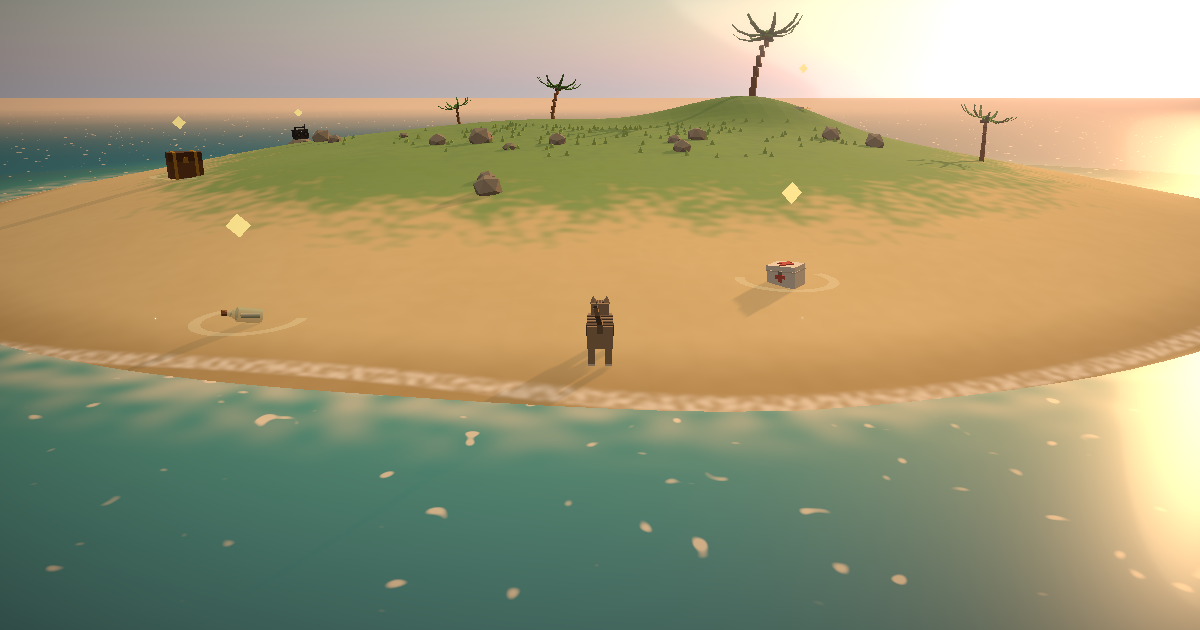
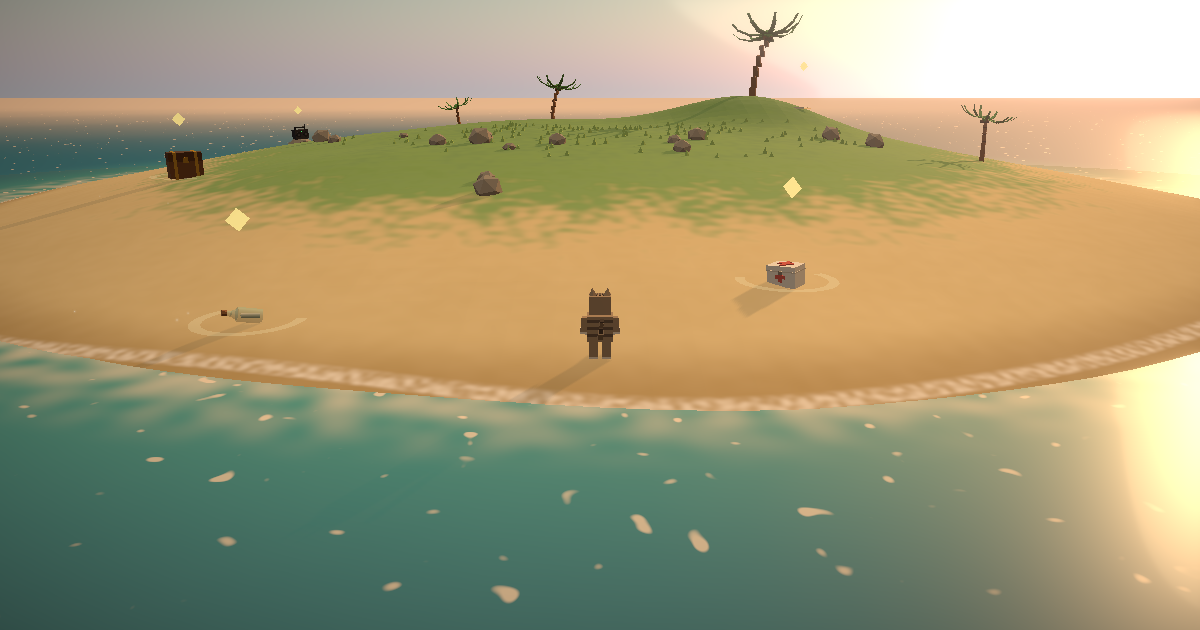
Bebo walks on two legs now
Rebuilt the cat as a biped mascot: upright torso with tabby rings and
cream belly, chibi head, arms that swing opposite the leg steps, waddle
roll while walking, and an idle plop-down sit with legs stuck out.
Regenerated the OG image to match.

diff --git a/src/scene/PlayerCat.tsx b/src/scene/PlayerCat.tsx
@@ -28,8 +28,9 @@ function dampAngle(current: number, target: number, k: number, dt: number): numb
 }
 
 // ---------------------------------------------------------------------------
-// The cat itself: hand-built from boxes, tabby markings included.
-// Animated procedurally — diagonal leg pairs, body bob, tail sway, ear twitch.
+// Bebo: hand-built from boxes, standing on two legs like the little mascot
+// he is. Tabby markings included. Animated procedurally — alternating leg
+// steps, opposite arm swings, waddle roll, tail sway, ear twitches.
 // ---------------------------------------------------------------------------
 
 interface CatRefs {
@@ -38,7 +39,8 @@ interface CatRefs {
   earL: RefObject<THREE.Mesh | null>
   earR: RefObject<THREE.Mesh | null>
   tail: RefObject<THREE.Group | null>[]
-  legs: RefObject<THREE.Group | null>[]
+  legs: RefObject<THREE.Group | null>[] // [left, right]
+  arms: RefObject<THREE.Group | null>[] // [left, right]
 }
 
 function CatModel({ refs }: { refs: CatRefs }) {
@@ -54,76 +56,65 @@ function CatModel({ refs }: { refs: CatRefs }) {
     [],
   )
 
-  const legPositions: [number, number][] = [
-    [-0.14, 0.27], // front-left
-    [0.14, 0.27], // front-right
-    [-0.14, -0.27], // back-left
-    [0.14, -0.27], // back-right
-  ]
-
   return (
     <group scale={0.92}>
       <group ref={refs.body}>
-        {/* torso */}
-        <mesh castShadow material={mats.base} position={[0, 0.5, 0]}>
-          <boxGeometry args={[0.42, 0.36, 0.85]} />
+        {/* upright torso */}
+        <mesh castShadow material={mats.base} position={[0, 0.56, 0]}>
+          <boxGeometry args={[0.42, 0.44, 0.3]} />
         </mesh>
-        <mesh material={mats.belly} position={[0, 0.35, 0.02]}>
-          <boxGeometry args={[0.36, 0.1, 0.62]} />
-        </mesh>
-        {/* back stripes */}
-        {[-0.28, -0.12, 0.05, 0.22].map((z, i) => (
-          <mesh key={i} material={mats.stripe} position={[0, 0.675, z]}>
-            <boxGeometry args={[0.44, 0.035, 0.09]} />
+        {/* tabby rings around the torso (belly patch covers the front) */}
+        {[0.46, 0.58, 0.7].map((y, i) => (
+          <mesh key={i} material={mats.stripe} position={[0, y, -0.01]}>
+            <boxGeometry args={[0.435, 0.045, 0.31]} />
           </mesh>
         ))}
-        {/* side stripes */}
-        {[-0.2, 0.13].map((z, i) => (
-          <mesh key={i} material={mats.stripe} position={[0, 0.56, z]}>
-            <boxGeometry args={[0.45, 0.16, 0.06]} />
-          </mesh>
-        ))}
+        {/* cream belly, front */}
+        <mesh material={mats.belly} position={[0, 0.53, 0.15]}>
+          <boxGeometry args={[0.3, 0.34, 0.04]} />
+        </mesh>
 
-        {/* head */}
-        <group ref={refs.head} position={[0, 0.72, 0.47]}>
-          <mesh castShadow material={mats.base} position={[0, 0, 0]}>
-            <boxGeometry args={[0.32, 0.28, 0.28]} />
+        {/* head (chibi-big) */}
+        <group ref={refs.head} position={[0, 0.95, 0.02]}>
+          <mesh castShadow material={mats.base}>
+            <boxGeometry args={[0.36, 0.3, 0.3]} />
           </mesh>
           {/* forehead "M" */}
           {[-0.05, 0, 0.05].map((x, i) => (
-            <mesh key={i} material={mats.stripe} position={[x, 0.145, 0.01]} rotation-y={x * -3}>
+            <mesh key={i} material={mats.stripe} position={[x, 0.155, 0.02]} rotation-y={x * -3}>
               <boxGeometry args={[0.025, 0.012, 0.14]} />
             </mesh>
           ))}
+          {/* muzzle + nose */}
           <mesh material={mats.belly} position={[0, -0.06, 0.17]}>
             <boxGeometry args={[0.16, 0.11, 0.09]} />
           </mesh>
-          <mesh material={mats.nose} position={[0, -0.025, 0.218]}>
+          <mesh material={mats.nose} position={[0, -0.025, 0.222]}>
             <boxGeometry args={[0.05, 0.035, 0.03]} />
           </mesh>
           {/* eyes */}
           {[-0.09, 0.09].map((x, i) => (
-            <mesh key={i} material={mats.eye} position={[x, 0.035, 0.143]}>
+            <mesh key={i} material={mats.eye} position={[x, 0.035, 0.155]}>
               <boxGeometry args={[0.05, 0.06, 0.02]} />
             </mesh>
           ))}
           {/* ears */}
-          <mesh ref={refs.earL} castShadow material={mats.base} position={[-0.11, 0.19, -0.02]}>
-            <coneGeometry args={[0.075, 0.15, 4]} />
+          <mesh ref={refs.earL} castShadow material={mats.base} position={[-0.12, 0.2, -0.02]}>
+            <coneGeometry args={[0.08, 0.16, 4]} />
           </mesh>
-          <mesh ref={refs.earR} castShadow material={mats.base} position={[0.11, 0.19, -0.02]}>
-            <coneGeometry args={[0.075, 0.15, 4]} />
+          <mesh ref={refs.earR} castShadow material={mats.base} position={[0.12, 0.2, -0.02]}>
+            <coneGeometry args={[0.08, 0.16, 4]} />
           </mesh>
-          <mesh material={mats.earInner} position={[-0.11, 0.16, 0.015]}>
-            <coneGeometry args={[0.04, 0.08, 4]} />
+          <mesh material={mats.earInner} position={[-0.12, 0.17, 0.015]}>
+            <coneGeometry args={[0.045, 0.09, 4]} />
           </mesh>
-          <mesh material={mats.earInner} position={[0.11, 0.16, 0.015]}>
-            <coneGeometry args={[0.04, 0.08, 4]} />
+          <mesh material={mats.earInner} position={[0.12, 0.17, 0.015]}>
+            <coneGeometry args={[0.045, 0.09, 4]} />
           </mesh>
         </group>
 
-        {/* tail: three chained segments with tabby rings */}
-        <group ref={refs.tail[0]} position={[0, 0.6, -0.42]} rotation-x={0.9}>
+        {/* tail: three chained segments with tabby rings, curling up behind */}
+        <group ref={refs.tail[0]} position={[0, 0.42, -0.16]} rotation-x={0.7}>
           <mesh castShadow material={mats.base} position={[0, 0, -0.13]}>
             <boxGeometry args={[0.085, 0.085, 0.26]} />
           </mesh>
@@ -141,16 +132,30 @@ function CatModel({ refs }: { refs: CatRefs }) {
             </group>
           </group>
         </group>
+
+        {/* arms, hanging from the shoulders */}
+        {[-1, 1].map((side, i) => (
+          <group key={i} ref={refs.arms[i]} position={[side * 0.25, 0.72, 0]} rotation-z={side * 0.1}>
+            <mesh castShadow material={mats.base} position={[0, -0.11, 0]}>
+              <boxGeometry args={[0.11, 0.24, 0.12]} />
+            </mesh>
+            {/* white paw */}
+            <mesh material={mats.belly} position={[0, -0.235, 0.01]}>
+              <boxGeometry args={[0.115, 0.08, 0.125]} />
+            </mesh>
+          </group>
+        ))}
       </group>
 
-      {/* legs pivot at the hip so they swing */}
-      {legPositions.map(([x, z], i) => (
-        <group key={i} ref={refs.legs[i]} position={[x, 0.32, z]}>
-          <mesh castShadow material={mats.base} position={[0, -0.15, 0]}>
-            <boxGeometry args={[0.12, 0.3, 0.12]} />
+      {/* legs pivot at the hip so they step */}
+      {[-1, 1].map((side, i) => (
+        <group key={i} ref={refs.legs[i]} position={[side * 0.11, 0.34, 0]}>
+          <mesh castShadow material={mats.base} position={[0, -0.14, 0]}>
+            <boxGeometry args={[0.14, 0.28, 0.15]} />
           </mesh>
-          <mesh material={mats.belly} position={[0, -0.29, 0.012]}>
-            <boxGeometry args={[0.125, 0.08, 0.135]} />
+          {/* white foot, toes forward */}
+          <mesh castShadow material={mats.belly} position={[0, -0.275, 0.03]}>
+            <boxGeometry args={[0.15, 0.09, 0.21]} />
           </mesh>
         </group>
       ))}
@@ -170,7 +175,8 @@ export function PlayerCat({ controls }: { controls: RefObject<CameraControls | n
     earL: useRef(null),
     earR: useRef(null),
     tail: [useRef(null), useRef(null), useRef(null)],
-    legs: [useRef(null), useRef(null), useRef(null), useRef(null)],
+    legs: [useRef(null), useRef(null)],
+    arms: [useRef(null), useRef(null)],
   }
 
   const [, getKeys] = useKeyboardControls()
@@ -286,32 +292,44 @@ export function PlayerCat({ controls }: { controls: RefObject<CameraControls | n
     const speedN = Math.min(speed / WALK_SPEED, 1.6)
     if (speed > 0.05) phase.current += dt * (5 + 7 * speedN)
 
-    // Bebo sits down after a while with nothing to do
+    // Bebo plops down after a while with nothing to do
     idleTime.current = speed < 0.05 && !useGame.getState().activePanel ? idleTime.current + dt : 0
     const sitTarget = idleTime.current > 7 ? 1 : 0
     sitW.current += (sitTarget - sitW.current) * (1 - Math.exp(-(sitTarget ? 3 : 7) * dt))
     const sit = sitW.current
     const stand = 1 - sit
 
-    const swing = Math.sin(phase.current) * 0.6 * Math.min(1, speedN + 0.15)
-    const [fl, fr, bl, br] = refs.legs
-    if (fl.current) fl.current.rotation.x = swing * stand - 0.16 * sit
-    if (br.current) br.current.rotation.x = swing * stand + 1.35 * sit
-    if (fr.current) fr.current.rotation.x = -swing * stand - 0.16 * sit
-    if (bl.current) bl.current.rotation.x = -swing * stand + 1.35 * sit
+    // biped gait: legs alternate, arms swing opposite
+    const amp = Math.min(1, speedN + 0.15)
+    const step = Math.sin(phase.current) * 0.62 * amp
+    const [legL, legR] = refs.legs
+    if (legL.current) legL.current.rotation.x = step * stand + 1.42 * sit
+    if (legR.current) legR.current.rotation.x = -step * stand + 1.42 * sit
+    const [armL, armR] = refs.arms
+    if (armL.current) {
+      armL.current.rotation.x = -step * 0.55 * stand - 0.25 * sit
+      armL.current.rotation.z = -0.1 - 0.22 * sit
+    }
+    if (armR.current) {
+      armR.current.rotation.x = step * 0.55 * stand - 0.25 * sit
+      armR.current.rotation.z = 0.1 + 0.22 * sit
+    }
 
     if (refs.body.current) {
       refs.body.current.position.y =
-        (Math.abs(Math.sin(phase.current * 2)) * 0.028 * speedN) * stand - 0.08 * sit + Math.sin(t * 2.1) * 0.006
-      refs.body.current.rotation.x = Math.sin(phase.current * 2) * 0.02 * speedN * stand - 0.42 * sit
+        Math.abs(Math.sin(phase.current)) * 0.035 * speedN * stand - 0.14 * sit + Math.sin(t * 2.1) * 0.006
+      // lean into the walk, tip back a little when sitting
+      refs.body.current.rotation.x = (0.09 * speedN + Math.sin(phase.current * 2) * 0.015 * speedN) * stand - 0.12 * sit
+      // waddle
+      refs.body.current.rotation.z = Math.sin(phase.current) * 0.05 * speedN * stand
     }
     if (refs.head.current) {
-      refs.head.current.rotation.x = Math.sin(phase.current * 2 + 1) * 0.03 * speedN * stand + 0.34 * sit
+      refs.head.current.rotation.x = (Math.sin(phase.current * 2 + 1) * 0.03 * speedN - 0.06 * speedN) * stand + 0.1 * sit
     }
     // tail: lifts with speed, lazy sway at rest, curls around when sitting
     if (refs.tail[0].current) {
-      refs.tail[0].current.rotation.x = (0.9 + speedN * 0.28 + Math.sin(t * 1.4) * 0.07) * stand + 0.35 * sit
-      refs.tail[0].current.rotation.y = Math.sin(t * 1.1) * 0.18 + 0.9 * sit
+      refs.tail[0].current.rotation.x = (0.7 + speedN * 0.3 + Math.sin(t * 1.4) * 0.07) * stand + 0.28 * sit
+      refs.tail[0].current.rotation.y = Math.sin(t * 1.1) * 0.18 + 0.95 * sit
     }
     for (let i = 1; i < 3; i++) {
       const seg = refs.tail[i].current
